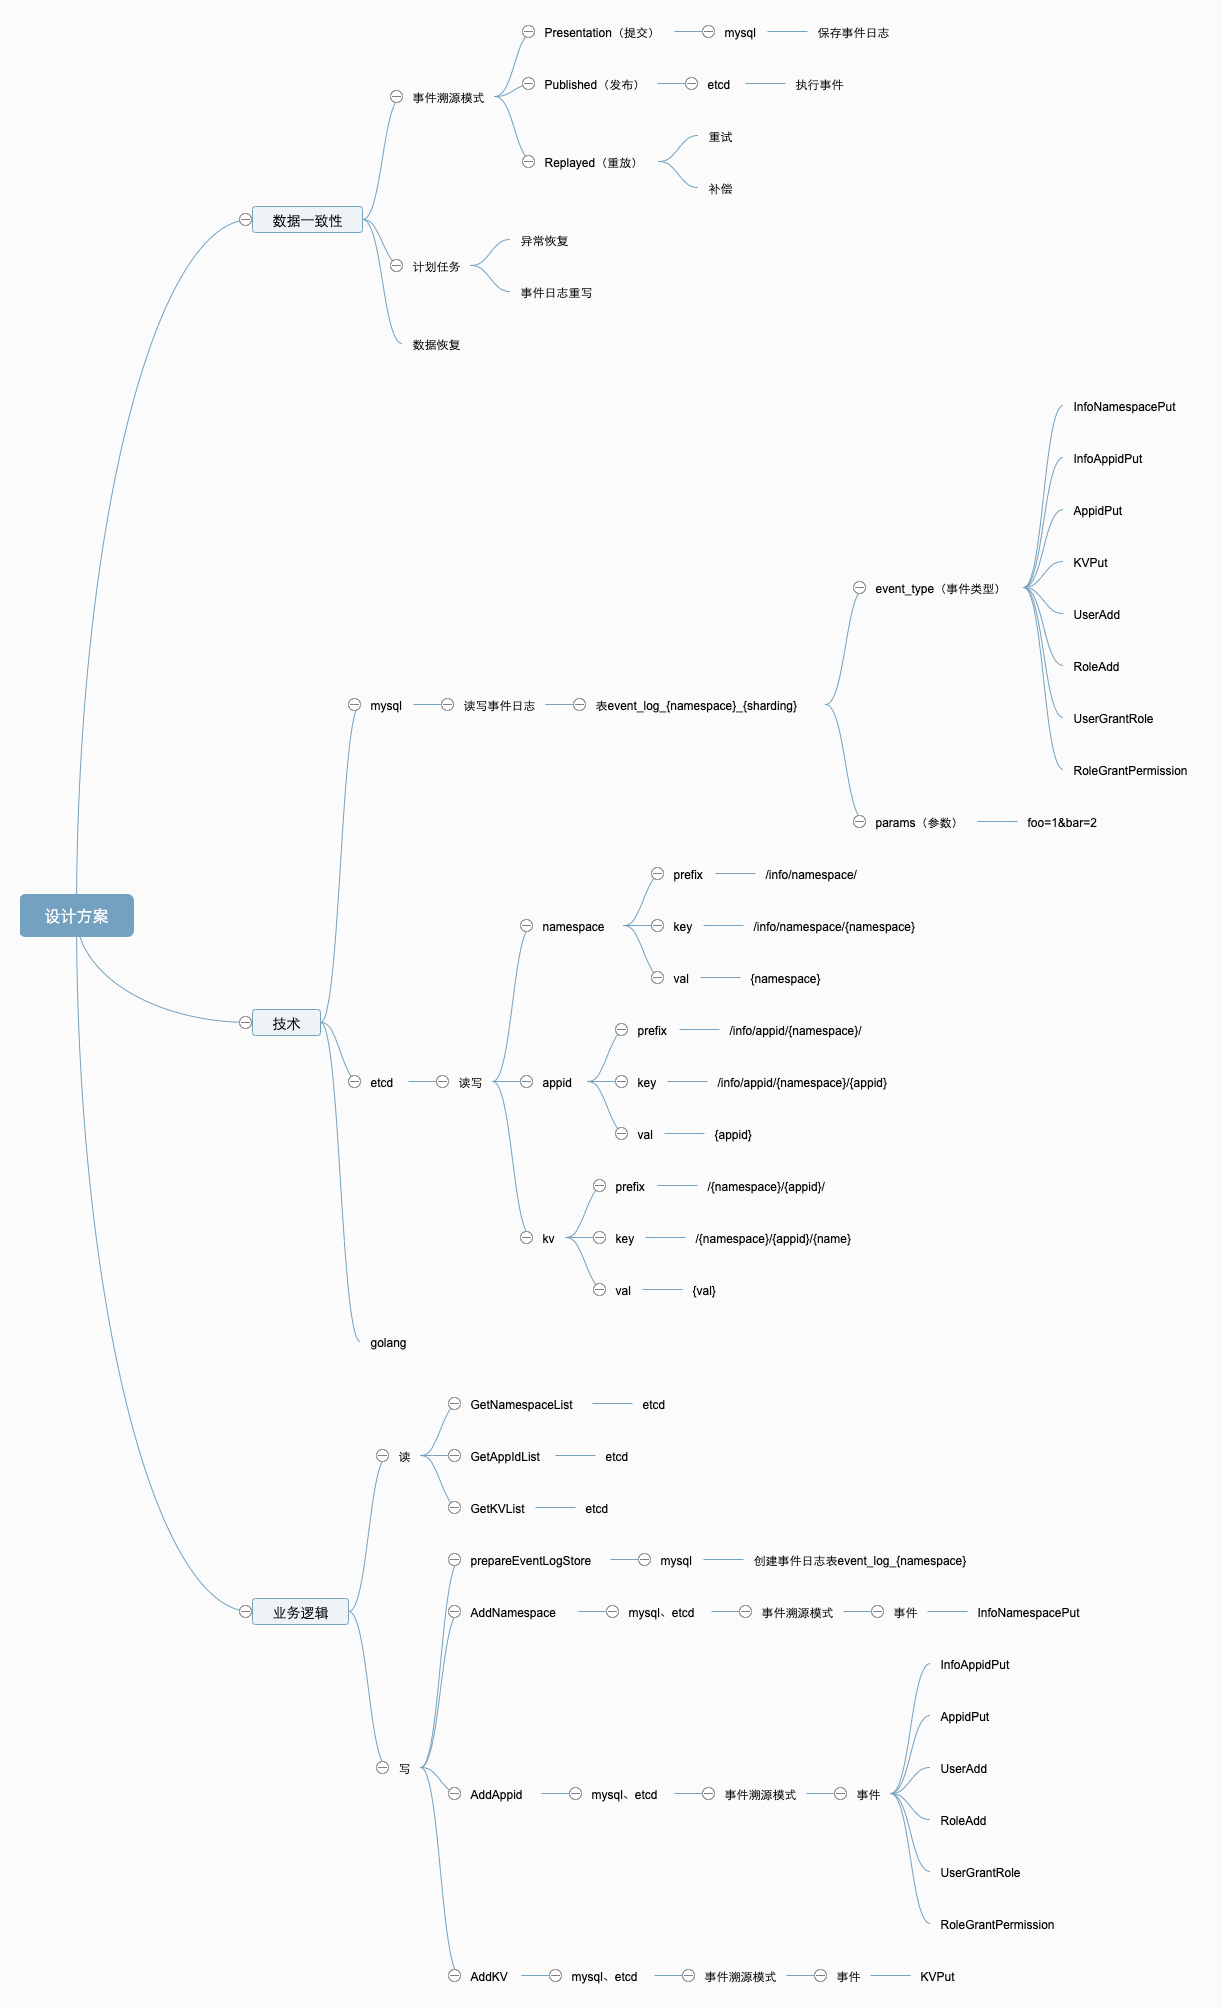
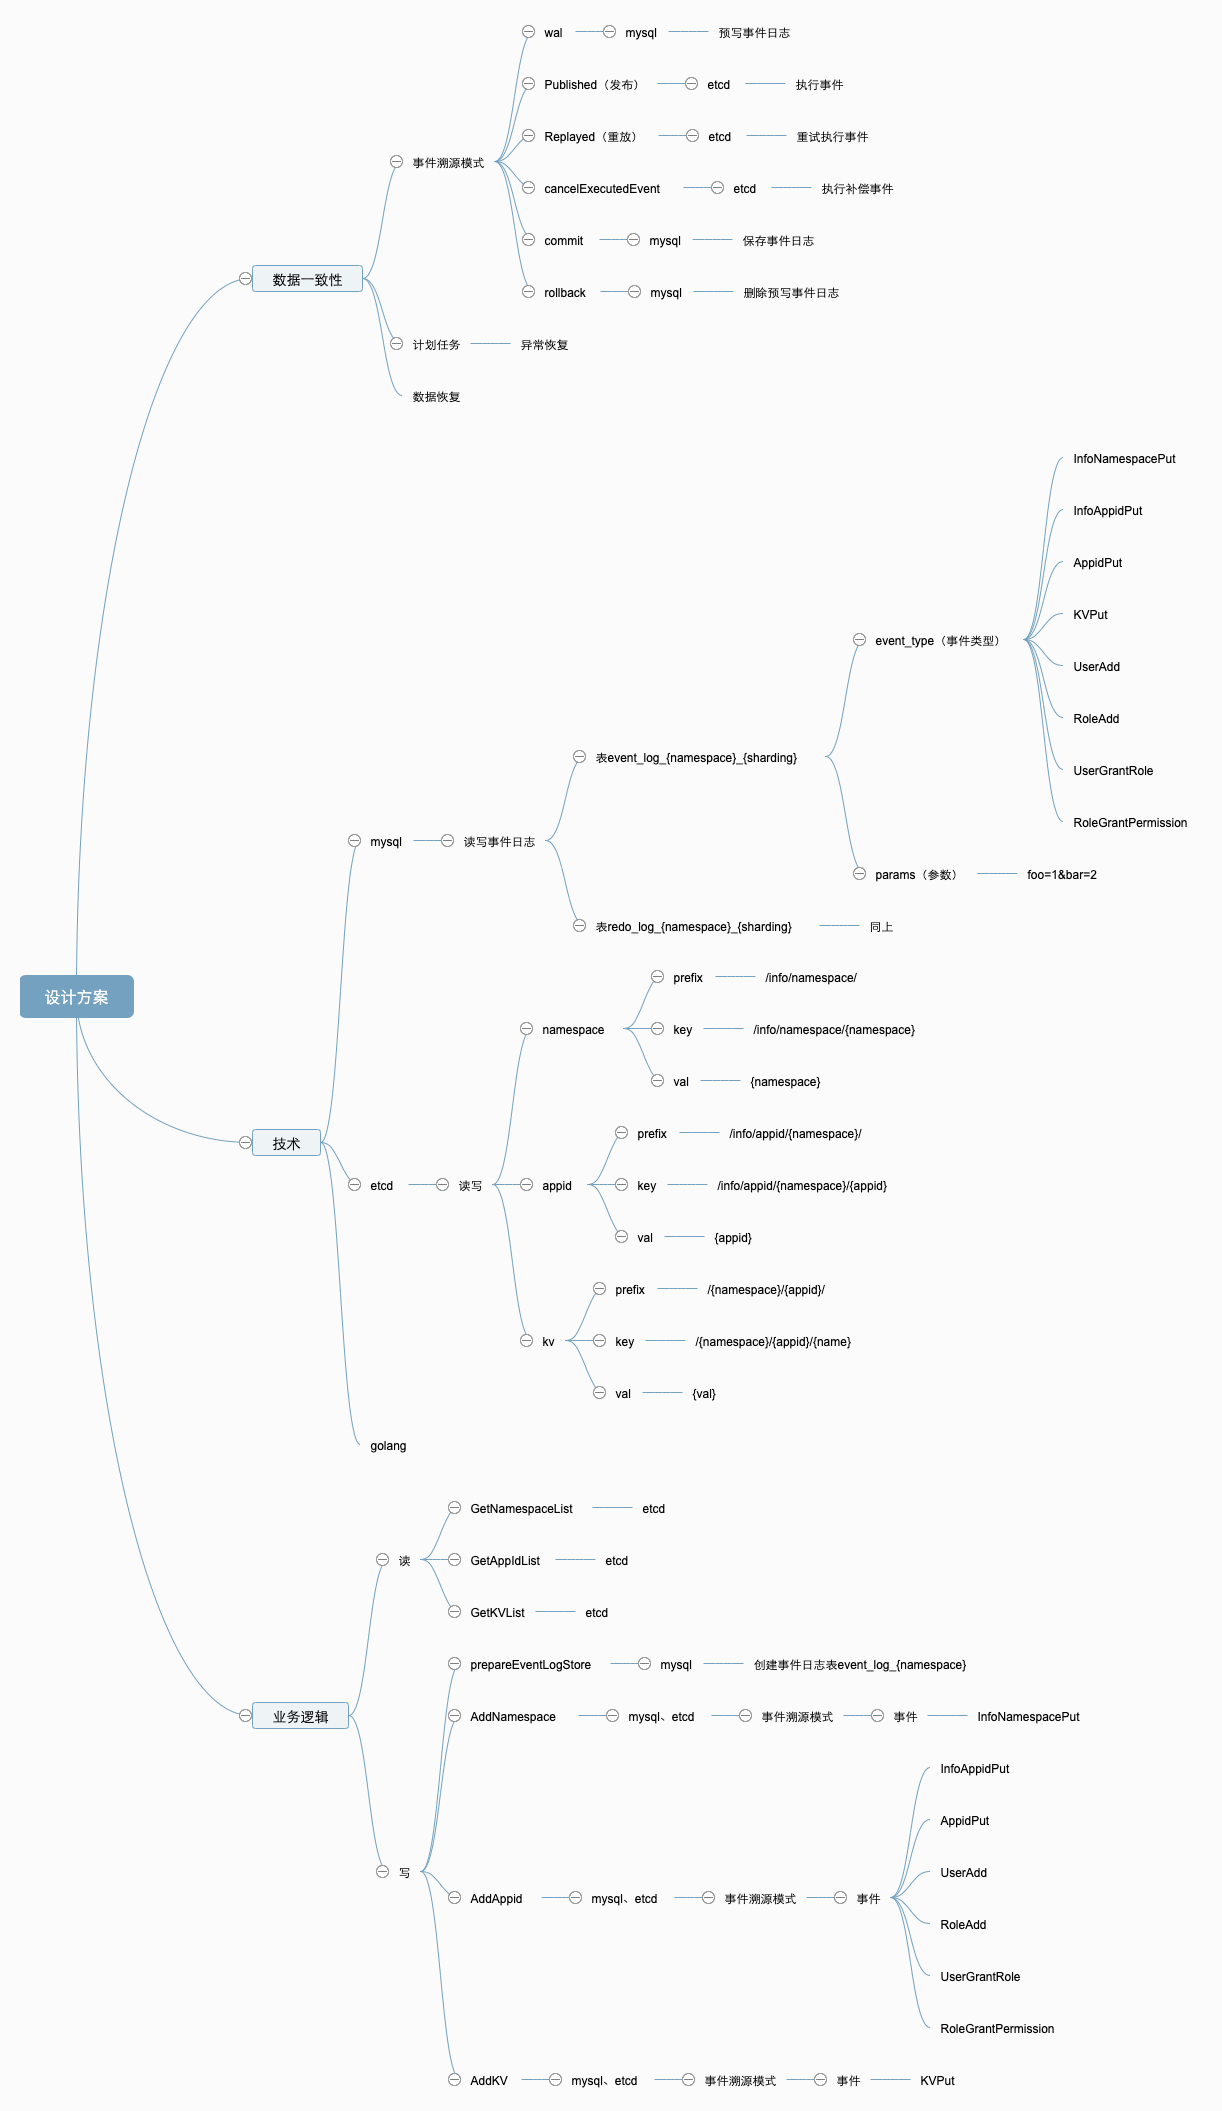
Update 使用wal

diff --git a/internal/core/event/sourcing/strategy/strategy.go b/internal/core/event/sourcing/strategy/strategy.go
@@ -10,6 +10,8 @@ import (
 	"github.com/cacos-group/cacos/internal/core/metadata"
 	clientv3 "go.etcd.io/etcd/client/v3"
 	"strconv"
+	"strings"
+	"time"
 )
 
 type strategy struct {
@@ -24,9 +26,6 @@ type Strategy interface {
 
 type EventSourcing interface {
 	GeneratorEvents(ctx context.Context, mds metadata.Metadatas) []model.Event
-	Presentation(ctx context.Context, tableName string, events []model.Event) error
-	Published(ctx context.Context, events []model.Event) (offset int, err error)
-	Replayed(ctx context.Context, tableName string, events []model.Event, offset int) (isRetrySuccess bool, err error)
 }
 
 func New(db *sql.DB, etcd *clientv3.Client) Strategy {
@@ -60,32 +59,49 @@ func (s *strategy) Handler(ctx context.Context, esn model.EventSourcingName, mds
 	events := es.GeneratorEvents(ctx, mds)
 
 	tableName := GenTableName(mds.Get(metadata.Namespace), 0)
-	err = es.Presentation(ctx, tableName, events)
+
+	err = s.wal(ctx, GenRedoTableName(tableName), events)
 	if err != nil {
 		return
 	}
 
-	offset, err := es.Published(ctx, events)
+	trxID := 0
+	offset, err := s.Published(ctx, events)
+	if err == nil {
+		err = s.commit(ctx, tableName, trxID)
+		if err != nil {
+			return err
+		}
+		return
+	}
+
+	newOffset, replayedErr := s.Replayed(ctx, tableName, events, offset)
+	if replayedErr == nil {
+		err = s.commit(ctx, tableName, trxID)
+		if err != nil {
+			return err
+		}
+		return nil
+	}
+
+	ceeErr := s.cancelExecutedEvent(ctx, events, newOffset)
+	if ceeErr != nil {
+		return ceeErr
+	}
+
+	err = s.rollback(ctx, tableName, trxID)
 	if err != nil {
-		isRetrySuccess, replayedErr := s.Replayed(ctx, tableName, events, offset)
-		if replayedErr != nil {
-			return replayedErr
-		}
-
-		if isRetrySuccess == true {
-			return nil
-		}
-
 		return err
 	}
-	return
+
+	return nil
 }
 
 func (s *strategy) GeneratorEvents(ctx context.Context, mds metadata.Metadatas) (list []model.Event) {
 	return
 }
 
-func (s *strategy) Presentation(ctx context.Context, tableName string, events []model.Event) (err error) {
+func (s *strategy) wal(ctx context.Context, tableName string, events []model.Event) (err error) {
 	conn, err := s.db.Conn(ctx)
 	if err != nil {
 		return err
@@ -103,11 +119,7 @@ func (s *strategy) Presentation(ctx context.Context, tableName string, events []
 		return
 	}
 
-	err = tx.Commit()
-	if err != nil {
-		tx.Rollback()
-		return
-	}
+	tx.Commit()
 
 	return nil
 }
@@ -126,17 +138,53 @@ func (s *strategy) store(tx *sql.Tx, ctx context.Context, tableName string, even
 			}
 		}
 
-		if event.EventType == model.KVDel {
-			// todo
-		} else {
-			// todo major
-			_, err = tx.ExecContext(ctx, fmt.Sprintf(_addEventLogSql, tableName), event.EventType, event.Params.Encode(), "")
-			if err != nil {
-				return err
-			}
+		// todo major
+		_, err = tx.ExecContext(ctx, fmt.Sprintf(_addEventLogSql, tableName), event.EventType, event.Params.Encode(), "", time.Now().Format("2006-01-02 15:04:05"))
+		if err != nil {
+			return err
 		}
+
 	}
 	return nil
+}
+
+func (s *strategy) commit(ctx context.Context, tableName string, trxID int) (err error) {
+	conn, err := s.db.Conn(ctx)
+	if err != nil {
+		return err
+	}
+	defer conn.Close()
+	tx, err := conn.BeginTx(ctx, nil)
+	if err != nil {
+		return err
+	}
+
+	err = func() (err error) {
+		_sql := "INSERT INTO %s (`trx_id`, `event_type`, `params`, `major`, `event_time`) SELECT `trx_id`, `event_type`, `params`, `major`, `event_time` FROM %s WHERE `trx_id` = ?"
+		query := fmt.Sprintf(_sql, tableName, strings.Replace(tableName, "event_log", "redo_log", 1))
+		_, err = tx.ExecContext(ctx, query, trxID)
+		if err != nil {
+			return
+		}
+
+		_sql2 := "DELETE FROM %s WHERE `trx_id` = ?"
+		query2 := fmt.Sprintf(_sql2, strings.Replace(tableName, "event_log", "redo_log", 1))
+		_, err = tx.ExecContext(ctx, query2, trxID)
+		if err != nil {
+			return
+		}
+
+		return
+	}()
+
+	if err != nil {
+		_ = tx.Rollback()
+		return
+	}
+
+	_ = tx.Commit()
+
+	return
 }
 
 func (s *strategy) Published(ctx context.Context, events []model.Event) (offset int, err error) {
@@ -188,7 +236,7 @@ func (s *strategy) execEvent(ctx context.Context, event model.Event) (err error)
 	return
 }
 
-func (s *strategy) Replayed(ctx context.Context, tableName string, events []model.Event, offset int) (isRetrySuccess bool, err error) {
+func (s *strategy) Replayed(ctx context.Context, tableName string, events []model.Event, offset int) (newOffset int, err error) {
 	//todo retry次数
 	for offset < len(events) {
 		err = s.execEvent(ctx, events[offset])
@@ -199,38 +247,16 @@ func (s *strategy) Replayed(ctx context.Context, tableName string, events []mode
 		offset++
 	}
 
-	if err == nil {
-		return true, nil
-	}
+	newOffset = offset
 
-	// 写入补偿事件
-	cancels := make([]model.Event, 0, len(events))
-	for _, event := range events {
-		if event.Cancel.EventType != "" {
-			cancels = append(cancels, event.Cancel.Format())
-		}
-	}
-
-	conn, err := s.db.Conn(ctx)
 	if err != nil {
-		return false, err
-	}
-	defer conn.Close()
-
-	tx, err := conn.BeginTx(ctx, nil)
-	if err != nil {
-		return false, err
-	}
-
-	err = s.store(tx, ctx, tableName, cancels)
-	if err != nil {
-		tx.Rollback()
-		//todo 计划任务恢复
 		return
 	}
 
-	tx.Commit()
+	return
+}
 
+func (s *strategy) cancelExecutedEvent(ctx context.Context, events []model.Event, offset int) (err error) {
 	// 执行补偿事件
 	successEvents := events[:offset]
 	for _, event := range successEvents {
@@ -241,11 +267,25 @@ func (s *strategy) Replayed(ctx context.Context, tableName string, events []mode
 			}
 		}
 	}
-
 	if err != nil {
 		//todo 计划任务恢复
 		return
 	}
+	return
+}
 
-	return false, nil
+func (s *strategy) rollback(ctx context.Context, tableName string, trxID int) (err error) {
+	conn, err := s.db.Conn(ctx)
+	if err != nil {
+		return err
+	}
+
+	_sql2 := "DELETE FROM %s WHERE `trx_id` = ?"
+	query2 := fmt.Sprintf(_sql2, strings.Replace(tableName, "event_log", "redo_log", 1))
+	_, err = conn.ExecContext(ctx, query2, trxID)
+	if err != nil {
+		return
+	}
+
+	return
 }

diff --git a/internal/core/event/sourcing/sql/sql.go b/internal/core/event/sourcing/sql/sql.go
@@ -1,5 +1,5 @@
 package sql
 
 const (
-	CreateEventLogSql = "CREATE TABLE `%s` (\n`id` bigint(20) NOT NULL AUTO_INCREMENT,\n`trx_id` bigint(20) NOT NULL DEFAULT 0,\n`event_type` varchar(45) COLLATE utf8mb4_unicode_ci NOT NULL,\n`params` varchar(1000) COLLATE utf8mb4_unicode_ci NOT NULL,\n`major` varchar(100) COLLATE utf8mb4_unicode_ci NOT NULL COMMENT '放置key的名字',\n`created_at` timestamp NOT NULL DEFAULT current_timestamp(),\nPRIMARY KEY (`id`),\nKEY `idx_trx_id` (`trx_id`),\nKEY `idx_major` (`major`)\n) ENGINE=InnoDB AUTO_INCREMENT=1 DEFAULT CHARSET=utf8mb4 COLLATE=utf8mb4_unicode_ci"
+	CreateEventLogSql = "CREATE TABLE `%s` (\n`id` bigint(20) NOT NULL AUTO_INCREMENT,\n`trx_id` bigint(20) NOT NULL DEFAULT 0,\n`event_type` varchar(45) COLLATE utf8mb4_unicode_ci NOT NULL,\n`params` varchar(1000) COLLATE utf8mb4_unicode_ci NOT NULL,\n`major` varchar(100) COLLATE utf8mb4_unicode_ci NOT NULL COMMENT '放置key的名字',`event_time` timestamp,\n`created_at` timestamp NOT NULL DEFAULT current_timestamp(),\nPRIMARY KEY (`id`),\nKEY `idx_trx_id` (`trx_id`),\nKEY `idx_major` (`major`)\n) ENGINE=InnoDB AUTO_INCREMENT=1 DEFAULT CHARSET=utf8mb4 COLLATE=utf8mb4_unicode_ci"
 )

diff --git a/internal/core/event/sourcing/sourcing.go b/internal/core/event/sourcing/sourcing.go
@@ -95,11 +95,28 @@ func (c *client) prepareEventLogStore(ctx context.Context, namespace string) (er
 	defer conn.Close()
 
 	tableName := strategy.GenTableName(namespace, 0)
+	redoTableName := strategy.GenRedoTableName(tableName)
+
+	tx, err := conn.BeginTx(ctx, nil)
+	if err != nil {
+		return err
+	}
 
 	// create event_log_%s_%s
-	_, err = conn.ExecContext(ctx, fmt.Sprintf(sql2.CreateEventLogSql, tableName))
+	_, err = tx.ExecContext(ctx, fmt.Sprintf(sql2.CreateEventLogSql, tableName))
 	if err != nil {
+		tx.Rollback()
 		return
 	}
+
+	// create redo_log_%s_%s
+	_, err = tx.ExecContext(ctx, fmt.Sprintf(sql2.CreateEventLogSql, redoTableName))
+	if err != nil {
+		tx.Rollback()
+		return
+	}
+
+	tx.Commit()
+
 	return
 }

diff --git a/internal/core/event/sourcing/strategy/sql.go b/internal/core/event/sourcing/strategy/sql.go
@@ -1,12 +1,19 @@
 package strategy
 
-import "fmt"
+import (
+	"fmt"
+	"strings"
+)
 
 const (
-	_addEventLogSql    = "INSERT INTO `%s` (`event_type`, `params`, `major`) VALUES(?,?,?)"
+	_addEventLogSql    = "INSERT INTO `%s` (`event_type`, `params`, `major`, `event_time`) VALUES(?,?,?,?)"
 	_existsEventLogSql = "SELECT count(*) as count FROM `%s` WHERE `event_type` = ? AND `params` = ?"
 )
 
 func GenTableName(namespace string, sharding int) string {
 	return fmt.Sprintf("event_log_%s", namespace)
+}
+
+func GenRedoTableName(eventLogTableName string) string {
+	return strings.Replace(eventLogTableName, "event_log", "redo_log", 1)
 }

diff --git a/internal/core/event/sourcing/sourcing_test.go b/internal/core/event/sourcing/sourcing_test.go
@@ -52,7 +52,8 @@ func TestClient_AddNamespace(t *testing.T) {
 func TestClient_AddAppid(t *testing.T) {
 	c := testClient(t)
 
-	err := c.AddAppid(context.Background(), "namespace5", fmt.Sprintf("appid%d", time.Now().Unix()))
+	err := c.AddNamespace(context.Background(), "namespace23")
+	err = c.AddAppid(context.Background(), "namespace23", fmt.Sprintf("appid%d", time.Now().Unix()))
 	if err != nil {
 		t.Error(err)
 		return

diff --git a/internal/service/service.go b/internal/service/service.go
@@ -106,7 +106,6 @@ func (s *Service) KvList(ctx context.Context, in *api.KVListReq) (out *api.KVLis
 }
 
 func (s *Service) AddNamespace(ctx context.Context, in *api.AddNamespaceReq) (out *empty.Empty, err error) {
-
 	err = s.eventSourcing.AddNamespace(ctx, in.Namespace)
 	if err != nil {
 		return
